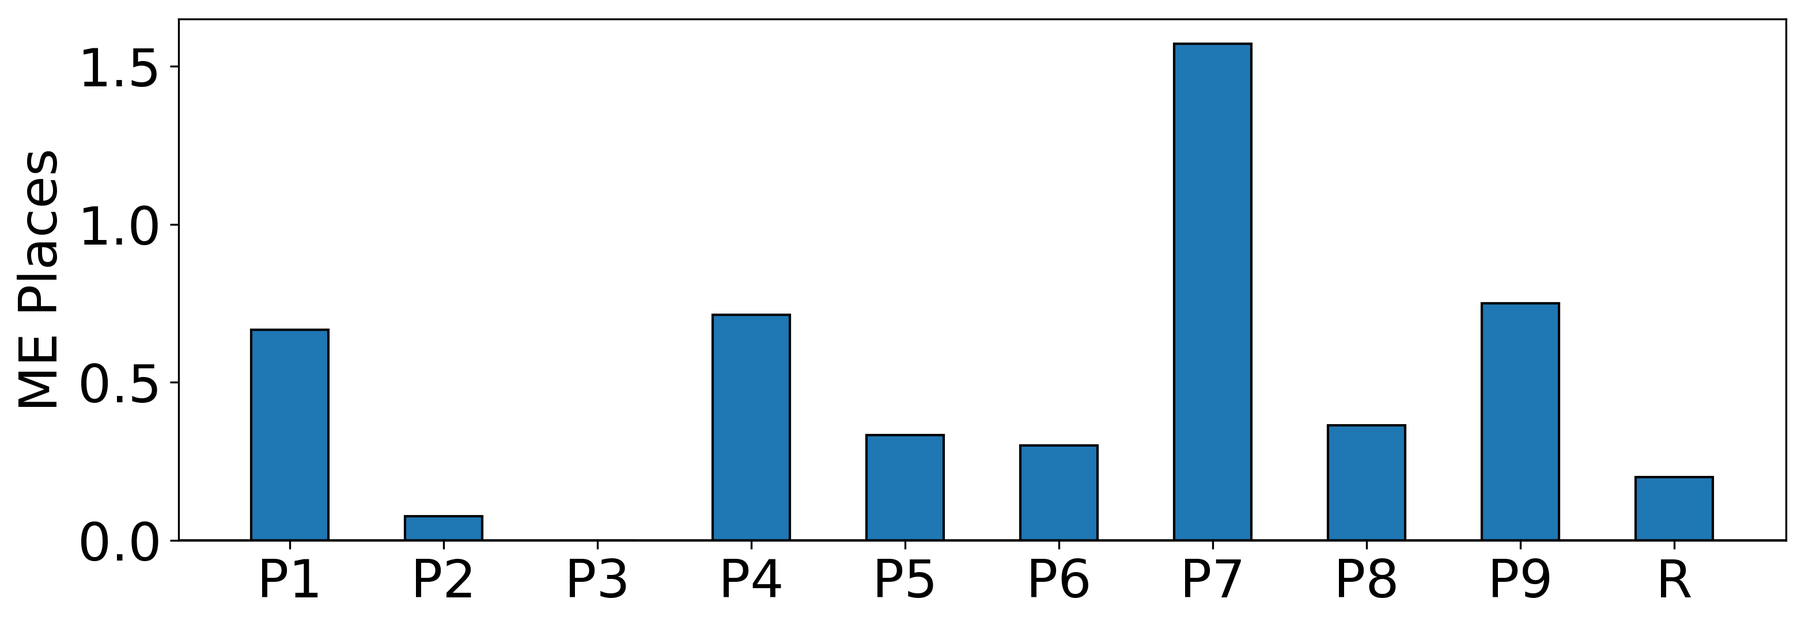
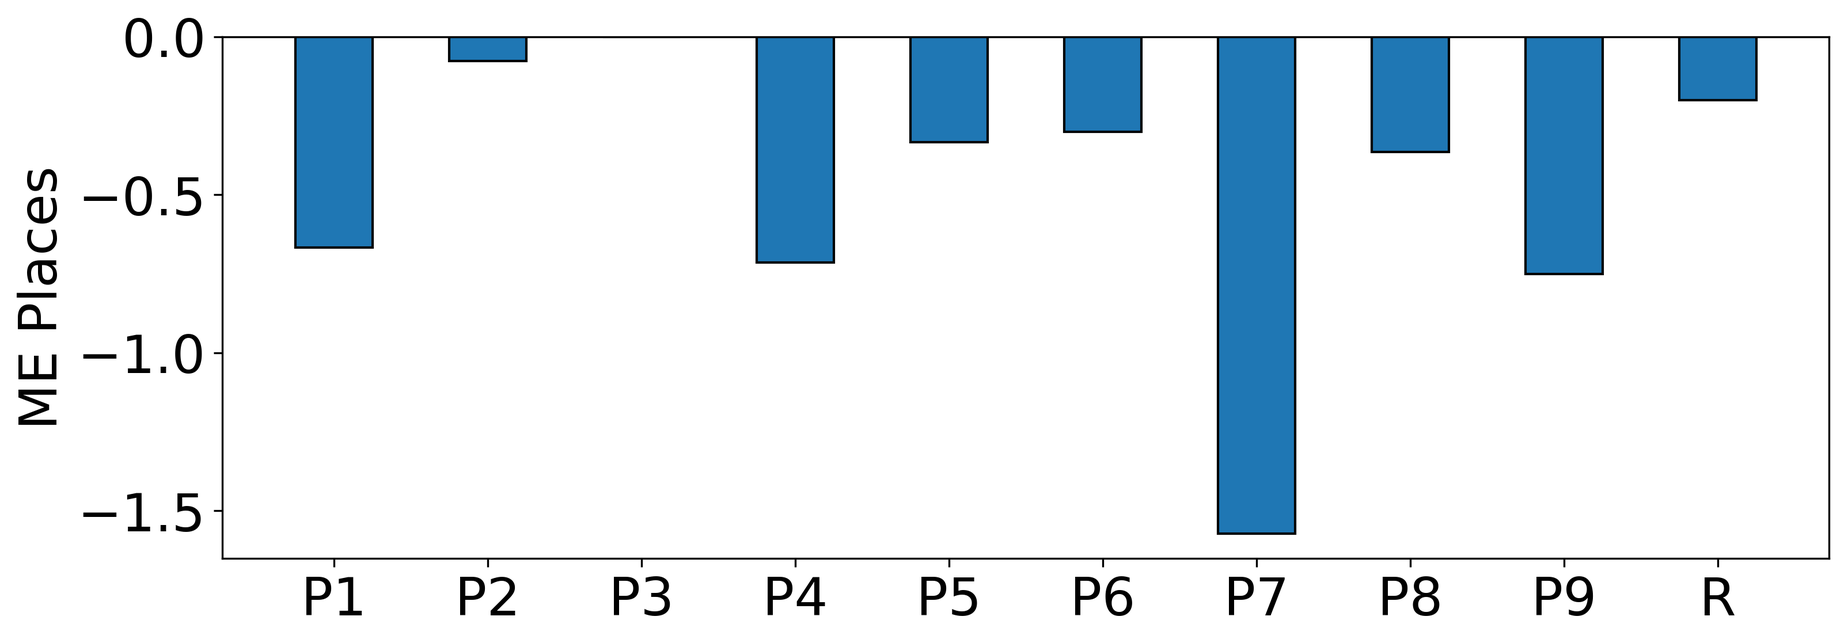
Updates from Overleaf

Changed region(s): [[0.0, 0.0304, 0.9907, 0.9724], [0.8979, 0.9116, 0.9598, 0.942]]

diff --git a/chapters/01-intro/012_background.tex b/chapters/01-intro/012_background.tex
@@ -5,8 +5,8 @@
 % This section will provide a context for the thesis in the form of a short introduction to the topic of deression and secondly a brief litterature review within mobile sensing and its applications.
 
 % Depression and treatments
-Major Depressive Disoder (MDD), commonly known as depression, is a serious illness that is resource-intensive to treat using traditional methods such as face to face consultations. Chartier and Provencher \cite{behavioural_activation_for_depression} describe how depression costs society a lot of money that there is a need to identify effective, evidence-based treatments that are time and cost-effective in an effort to increase the population's accessibility to treatments. Here, low-intensity interventions, such as guided self-help treatments, hold promise for the dissemination of evidence-based treatments. The treatment form of \textit{behavioral activation} is a component of cognitive behavioral therapy, is receiving increased attention and empirical support as a stand-alone psychotherapy method for treating depression. Dobson et al. \cite{randomized_trial_behavioural_activation} discusses how medication is the current standard for treating severe cases of depression, and normal cognitive therapy is the most widely investigated treatment for more moderate cases. Not all patients wish to be medicated and cognitive therapy has not demonstrated efficacy across trials. Dobson et al. found that cognitive therapy was outperformed by behavioral activation which performed similarly to antidepressant medication. Furthermore, the findings were also that behavioral activation is less expensive and longer-lasting alternatives to medication in the treatment of depression. Gravenhorst et al. \cite{Gravenhorst2015} back up this claim stating how mobile phones are beneficial for providing better treatment to more users with less cost, in particular in the area of mental disorders. \\
+Major Depressive Disoder (MDD), commonly known as depression, is a serious illness that is currently treated with medication or through therapy. Dobson et al. \cite{randomized_trial_behavioural_activation} discusses how medication is the current treatment standard for severe cases of depression, with cognitive therapy, a form of psychotherapy, being the most widely investigated treatment for more moderate cases. Dobson et al. also discusses how not all patients wish to be medicated and cognitive therapy has not demonstrated efficacy across trials. Furthermore, traditional psychotherapy is resource-intensive to treat as it requires traditional methods that involves face-to-face consultations face to face consultations. Chartier and Provencher \cite{behavioural_activation_for_depression} describe the need to identify effective, evidence-based treatments that are time and cost-effective in an effort to increase the population's accessibility to treatments. Here, low-intensity interventions, such as guided self-help treatments, hold promise for the dissemination of evidence-based treatments. The treatment form of \textit{behavioral activation} is a component of cognitive behavioral therapy, is receiving increased attention and empirical support as a stand-alone psychotherapy method for treating depression.  Dobson et al. found that cognitive therapy was outperformed by behavioral activation which performed similarly to antidepressant medication. Furthermore, the findings were also that behavioral activation is less expensive and longer-lasting alternatives to medication in the treatment of depression. Gravenhorst et al. \cite{Gravenhorst2015} back up this claim stating how mobile phones, in particular in the area of mental disorders, can provide better treatment to more users with a lower cost. \\
 
 % Mobile sensing
-Mobile sensing is the field of using the phone's sensors to collect objective user data and may include predicting the user state from this data. Objectivity of the data stems from the data being collected from sensors in contrast to subjective user data such as questionnaires. Mobile sensing has become especially prevalent the last few years due to the rise of ubiquitous computing. Applications of mobile sensing include mental health monitoring also known as \textit{digital phenotyping} or \textit{user context generation}. In the realm of mental healthcare mobile sensing has the potential of providing a practical and low-cost approach to deliver psychological interventions for the prevention of mental health disorders \cite{mobile-based-interventions} as well as bringing mental healthcare to populations that do not have access to traditional psychotherapy \cite{future-mental-health}. Within the context of mobile sensing for behaviour and mental state, location data is commonly used. Rohani et al. \cite{rohani2018-correlations} found in a review of 46 studies that several of them showed consistent and statistically significant correlations between objective behavioral features collected via mobile and wearable devices and depressive mood symptoms. In addition they conclude that continuous- and everyday monitoring of behavioral metrics could be a promising supplementary objective measure for estimating depressive mood symptoms. Furthermore, the work by Saeb et al. \cite{Saeb2015, saeb2016} showed that location data can be used to derive certain \textit{mobility features} that are strongly connected with the PHQ-9 score for quantifying depression (see Appendix \ref{appendix:questionnaires}). Therefore, behavioural activation is an ideal use case for using objective mobility features to infer the user's mental state and behaviour. \\
+Mobile sensing involves the use of the phone's sensors to collect objective user data and may include predicting the user state from this data. Objectivity of the data stems from the data being collected from sensors in contrast to subjective user data such as questionnaires. Mobile sensing has become especially prevalent the last few years due to the rise of ubiquitous computing. Applications of mobile sensing include mental health monitoring also known as \textit{digital phenotyping} or \textit{user context generation}. Mobile sensing within healthcare is often abbreviated \textit{mHealth}. Within mental healthcare, mHealth opens the potential for practical and low-cost solutions for psychological interventions \cite{mobile-based-interventions}. In addition, mHealth also enables mental healthcare to reach populations that do not have access to traditional psychotherapy \cite{future-mental-health}, such as developing countries. Within the context of mHealth for behaviour and mental state, location data is commonly used. Rohani et al. \cite{rohani2018-correlations} found in a review of 46 studies that several of them showed consistent and statistically significant correlations between objective behavioral features collected via mobile and wearable devices and depressive mood symptoms. In addition they conclude that continuous- and everyday monitoring of behavioral metrics could be a promising supplementary objective measure for estimating depressive mood symptoms. As behavioural activation requires an understanding of the user's mental state and behavior it is an ideal use case for using objective mobility features. \\
 

diff --git a/chapters/01-intro/014_goals.tex b/chapters/01-intro/014_goals.tex
@@ -6,20 +6,20 @@
 The research goals closely match the research questions and will explain how the different sub-questions are answered, and which methods are used to do so.
 
 \subsubsection*{Goal 1: Implement the Off-line Mobility Feature Algorithms}
-Saeb et al. \cite{Saeb2015} and Canzian et al. \cite{Canzian2015} describes a list of mobility features, some of which they prove to strongly correlate with depressive behavior. These features need to be implemented in their most simple form, i.e. off-line, where all the location data for a given day is readily available. This will be carried out in Python with a synthetic dataset and later in Dart. This is done in order to demonstrate the quality of the algorithms. A pre-processing procedure inspired by Cuttone et al. \cite{sparse-location-2014} for finding certain features has been implemented by Jonas Busk prior to starting this thesis. 
+Saeb et al. \cite{Saeb2015} and Canzian et al. \cite{Canzian2015} describes a list of mobility features, some of which they prove to strongly correlate with depressive behavior. These features need to be implemented in their most simple form, i.e. off-line, where all the location data for a given day is readily available. This will be carried out in Python with a synthetic dataset and later in Dart. This is done in order to demonstrate the quality of the algorithms. A pre-processing algorithm inspired by Cuttone et al. \cite{sparse-location-2014} for finding certain features was used.
 
 \subsubsection*{Goal 2: Adapt Algorithms to Work in Real-time}
-The features described above will be implemented such that they can be evaluated on a partial dataset, i.e. an incomplete day's data. Many of the features will have minor changes applied to their calculation, however, the \textit{Routine Index} feature as defined by Canzian et al.\cite{Canzian2015} and Saeb et al. \cite{Saeb2015} may prove to be a challenge to implement in real-time. By its definition, this feature lends itself to be computed only once multiple full days of data have been collected, making the feature non-trivial to implement in a real-time fashion where it may compute on a partial, incomplete dataset. This adaptation will be carried out in Python.
+The features described above will be implemented such that they can be evaluated on a partial dataset, i.e. an incomplete day's data. Many of the features will have minor changes applied to their calculation and a larger effort is needed to ensure real-time capabilities. This adaptation will be carried out in Python.
 
 \subsubsection*{Goal 3: Implement Real-time Mobility Features on the Smartphone}
-An algorithm/procedure that runs the Mobility Feature algorithms on a smart-phone has to be written which involves a couple of steps. Location data has to be collected and stored on the smartphone, and then it has to be demonstrated that features can be computed whenever they need to be. However, storing raw data every day would end up taking up too much disk space and is therefore not an ideal solution when working with a smartphone. This means the solution has to be able to compute these history-dependent features without relying on storing raw data of each day. This implementation will be carried out in the Flutter mobile framework.
+An procedure that runs the mobility feature algorithms on a smart-phone has to be written which involves a couple of steps. Location data has to be collected and stored on the smartphone, and then it has to be demonstrated that features can be computed whenever they need to be. However, storing raw data every day would end up taking up too much disk space and is therefore not an ideal solution when working with a smartphone. This means the solution has to be able to compute these history-dependent features without relying on storing raw data of each day. This implementation will be carried out in the Dart programming language.
 
 \subsubsection*{Goal 4: Design and Release Flutter Software Package}
 The software package should be designed to perform feature computation in a way that is easy to use for an application programmer. In addition this package should have proper documentation and be released on the Dart package manager \footnote{\url{www.pub.dev}}.
 
 \subsubsection*{Goal 5: Develop a Demo Mobile Application}
-To demonstrate how the software package containing the algorithm will be used in practice, a Flutter demo-app will be developed in parallel with the software package. By developing an actual application and seeing the algorithms in use, a which is easy to use from an application programmer's perspective will emerge.
+To demonstrate how the software package containing the algorithm will be used in practice, a Flutter demo app will be developed in parallel with the software package. By developing an actual application and seeing the algorithms in use, a which is easy to use from an application programmer's perspective will emerge.
 
 \subsubsection*{Goal 6: Conduct a Field Study}
-To test the quality of the Mobility Features in action, a small scale study of 5-10 participants should be conducted and should run for 2-4 weeks (the longer the better). The participants will use the demo application in which they will have to fill out a small diary in order to evaluate the features computed by the algorithms. Participants should be reminded daily to fill out the diary such that as much user data is collected as possible.
+To test the quality of the mobility features, a small scale study of 5-10 participants is planned to run for at least 2 weeks. The participants will use the demo application in which they will have to fill out a small diary in order to evaluate the features computed by the algorithms. Participants should be reminded daily to fill out the diary such that as much user data is collected as possible.
 

diff --git a/chapters/01-intro/011_context_and_motivation.tex b/chapters/01-intro/011_context_and_motivation.tex
@@ -7,8 +7,10 @@
 % USE AN EXAMPLE, too abstract
 % Det har vist sig, at man ved at opsamle locatio ndata, kan man sige meget om adf'rd og mentale tilstand. Fx der var et studie som viste (saeb) en høj korrelation mellem features og spørgeskemaer
 
-It has been shown by Saeb et al. and Canzian et al. \cite{Saeb2015, Canzian2015} that a user's location data can reveal a lot about the user's change in behaviour and mental state. This is done by computing certain daily \textit{mobility features} from the location data over a period of time. In the context of mental health research, Saeb et. al \cite{Saeb2015} found that certain features correlate highly with the mental state reported by patients through medical questionnaires which indicate the features may be used as a component in psychotherapy. This thesis will describe the design and implementation of the \textit{Mobility Features Package}, a software package capable of computing mobility features in a smart-phone application. The research problem addressed in this project is focused on the software engineering aspect of developing the package and will focus on the lack of re-usable source code in research and lack of support for on-device, real-time feature computation. By real-time we refer to on-device computation at any time of the day, that is sufficiently quick to not hinder the application.\\
+It has been shown that changes in a user's location can reveal a lot about their behaviour and mental state. Location data collected from a user's smartphone is transformed into daily metrics called \textit{mobility features} that are highly correlated with the users mental state \cite{Saeb2015, Canzian2015}. Coherence between features derived objectively from a users phone and their mental state - as reported through questionnaires - could be a vital step to support psychotherapy components in the clinic.\\
 
-Regarding source code, numerous contributions exist within the field of using smartphone data for predicting the various states of the user. However, it is not common practice for researchers to publish their source code such that it may be used by other researchers in the future. In addition, most research in the field of mobility data (see \cite{Saeb2015, saeb2016, Canzian2015, extraction-of-behavioural-features}) seems to develop for the Android platform exclusively since this platform is more prevalent in most countries. This means even if the code was released, researchers interested in using the iOS platform would have to rewrite the source code more or less from the ground up. Also, source code tends to get deprecated over time, meaning maintenance by the researcher is required. These problems are contributing to the lack of source code available.\\
+Numerous contributions exist within the field of using smartphone data for predicting the various states of the user. It is however not common practice for researchers to publish their source code such that it may be used by other researchers in the future. In addition, most research in the field of mobility data (see \cite{Saeb2015, saeb2016, Canzian2015, extraction-of-behavioural-features}) seems to develop for the Android platform exclusively since this platform is more prevalent in most countries\footnote{\url{https://gs.statcounter.com/os-market-share/mobile/worldwide}}. This means even if the code was released, researchers interested in using the iOS platform would have to rewrite the source code more or less from the ground up. Furthermore, source code tends to get deprecated over time, meaning maintenance by the researcher is required. \\
 
-Regarding the lack of real-time support, it is common practice to gather all of the data first and then perform feature computation and data analysis together afterwards. This means that features are not computed when the mobile application is used 'in the field' which is when features can be used for interventions. Some features rely on historical data being available which also complicates their real-time computation, since historical data will need to be stored and computed on a resource constrained device. A research within mobile-health using this package will be able to move their focus from away from software engineering to focus on data analysis and study design. 
+Furthermore, it is common practice to gather all of the data first and then perform feature computation and data analysis together afterwards \cite{Saeb2015, saeb2016, sparse-location-2014, extraction-of-behavioural-features}. This means that features are not computed when the mobile application is used 'in the field' which is when features can be used for interventions. Some features rely on historical data being available which also complicates real-time computation, since historical data will need to be stored and computed on a resource constrained device. As a consequence, researchers within mobile-health using this package will be able to move their focus from away from software engineering to focus on data analysis and study design.\\
+
+This thesis describes the design and implementation of the \textit{Mobility Features Package}, a software package capable of computing mobility features in a smart-phone application. The research problem is focused on the software engineering aspect of developing such a package and will address the lack of re-usable source code in research and lack of support for on-device, real-time feature computation. By real-time we refer to on-device computation at any time of the day, that is sufficiently quick to not hinder the application.

diff --git a/chapters/01-intro/015_results.tex b/chapters/01-intro/015_results.tex
@@ -1,2 +1,12 @@
 \section{Results}
-The Mobility Features Package was implemented in the Flutter framework and supports on-device real-time mobility feature computation. From the work of Saeb et al. \cite{Saeb2015} and Canzian et al. \cite{Canzian2015} the features \textit{Home Stay, Number of Places, Distance Travelled, Location Variance, Entropy, Normalized Entropy,} and \textit{Routine Index} were chosen to be included in the package. A set of additional location features (stops, places and moves) were included as well, inspired by the work of Cuttone et al. \cite{sparse-location-2014} and Canzian et al. \cite{Canzian2015}. Features are computed in real-time using historical stops and moves stored on the phone which lowers the storage requirements greatly compared to using raw location data for feature computation. The Mobility Features Package makes it possible for the application programmer to compute mobility features with just 3 lines of code. This comes as the result of the API concealing the feature implementation details from the programmer to very high degree. Location tracking is not automatically carried out by the package, this must instead be done by an application programmer when writing his/her mobile application. This allows for easier maintenance and enables the package to be used among other packages dependent on location tracking, without causing dependency issues. In addition the package was tested through a field study with 10 participants for which an application was developed in Flutter that used the package. The application collected the participants' location several thousand times per day which resulted in a dataset of 240 MB of raw location data in total. Participants filled out a daily questionnaire pertaining to the features, these answers were then compared to the computed features. In comparing the answers to the computed features, promising results were achieved for the participants that were diligent in tracking their location and providing answers. 
+The Mobility Features Package was implemented in the Flutter framework and supports on-device real-time mobility feature computation. From the work of Saeb et al. \cite{Saeb2015} and Canzian et al. \cite{Canzian2015} the features \textit{Home Stay, Number of Places, Distance Travelled, Location Variance, Entropy, Normalized Entropy,} and \textit{Routine Index} were chosen to be included in the package. A set of additional location features, e.g. stops, places and moves, were included as well, inspired by the work of Cuttone et al. \cite{sparse-location-2014} and Canzian et al. \cite{Canzian2015}. Features are computed in real-time using historical stops and moves stored on the phone which lowers the storage requirements greatly compared to using raw location data for feature computation. The Mobility Features Package makes it possible for the application programmer to compute mobility features with just 3 lines of code. This comes as the result of the API concealing the feature implementation details from the programmer to very high degree. The package does not depend on any specific location plugin due to its design, which allows the programmer to flexibly choose their own plugin for tracking location data. This allows for easier maintenance and enables the package to be used among other packages dependent on location tracking, without causing dependency issues. The capabilities of the package was demonstrated through a field study with 10 participants lasting 3 weeks. For this study a Flutter application collected the participants' location and used the package to compute the participants' features multiple times daily. Participants also filled out a daily questionnaire pertaining to the features, which were compared to the computed features. In the 3-weeks study following insights concerning the Mobility package were drawn:
+
+\begin{itemize}
+    \item All the participants successfully installed and used the Mobility Features throughout the study period.
+    
+    \item Mobility features were computed several times a day, however, as in similar 'in the wild' studies, non-uniform gaps were observed in the collected location data, which reduced the accuracy of the computed features.
+    
+    \item When comparing the daily location features with subjective user data we found that the Mobility Features Package predicts the Number of Places visited with an RMSE of 0.5 places, the Home Stay percentage with an RMSE of 14.3\% and the Routine Index with an RMSE of 22.5\%.
+    
+    \item The algorithms tends to undershoot in predicting the number of places and home stay, likely due to gaps in the data. There is no consistent over- or undershooting done when it comes to computing the Routine Index, which likely stemmed from gaps in the location data, as well as variance the validity of the subjective answers regarding the participants routine.
+\end{itemize}

diff --git a/chapters/07-discussion/071-data-analysis.tex b/chapters/07-discussion/071-data-analysis.tex
@@ -118,16 +118,40 @@ The day-by-day results for the author are displayed in figure \ref{fig:plot-dail
     \caption{The answered and calculated data for each day for participant P8}
     \label{fig:plot-p8-features}
 \end{figure}
+
+
 \subsection{Measuring Errors}
+The RMSE was computed for all three features across participants and are shown in Table \ref{tab:error-table}. We observe the following:
 
-To say something about whether or not the algorithms undershoots or overshoots, the mean error for each participant was calculated as $ME = \frac{\sum(A) - \sum(F)}{N}$ (where $N$ is the total number of days for the specific feature, for the participant). If the result is \textit{positive} then the answered result was on average higher and vice versa if the result is \textit{negative}. Figure \ref{fig:plot-mean-error} shows the mean error for each feature, for each participant.\\
+\begin{itemize}
+    \item The Number of Places predicted deviates with almost 1 place daily.
 
-For the Number of Places feature, it can be observed that participants generally answer that they have been at more places than the algorithms calculate.\\
+    \item The Home Stay percentage deviates with 14\% daily.
 
-Regarding the Home Stay feature, it can be seen that it lies 10\% lower for half the participants (i.e. positive mean error), which was to be expected due to gaps in the sampled data. For a few participants the feature overshoots (i.e. negative mean error) although still within the 10\% error margin. For participant P2 it averages out to near zero percent and for participant P1 the feature undershoots dramatically with an error of 30\%.\\
+    \item The Routine Index deviates with 22.5\% daily. Here it is important to note than the Routine Index answer was given on scale with 20 percent increments which means that the 22.5\% RMSE is equivalent to one 'step' one the scale.
+\end{itemize}
 
-The Routine Index feature is very mixed with 6 participants answering higher than the algorithm and the remaining 4 being lower. All except for participant 6 deviating with almost 40\%. Routine Index answer was given on scale with 20 percent increments which means that the mean error is likely to lie much higher percentage-wise than the other two features.
-Very subjective\\
+\begin{table}[]
+    \centering
+    \begin{tabular}{|l|l|l|l|}
+    \hline
+                        & \textbf{Number of Places} & \textbf{Home Stay} & \textbf{Routine Index} \\ \hline
+    \textbf{Mean RMSE}       & 0.99                      & 14.27 (\%)         & 22.5 (\%)              \\ \hline
+    \end{tabular}
+    \caption{The mean RMSE computed for all participants}
+    \label{tab:error-table}
+\end{table}
+
+
+To say something about whether or not the features undershoot or overshoot, the mean error was calculated for each participant as as $ME = \frac{\sum(F) - \sum(A)}{N}$ (where $N$ is the total number of days for the specific feature, for the participant). If the mean error is positive, the feature overshoots compared to the answered value, and vice versa if the error is negative. Since the mean error has a sign, i.e. either positive or negative, the 'mean' mean error cannot be computed. Instead, the individual mean error for each participant is plotted in Figure \ref{fig:plot-mean-error}. From this figure we observe the following:
+
+\begin{itemize}
+    \item The Number of Places feature undershoots by around 0.6 places or lower for most participants, with P7 being an outlier with -1.5 places. It is likely that the undershooting stems from gaps in the data, which can lead to places not being detected due to missing signal.
+
+    \item The Home Stay feature undershoots for 8/10 participants, most of these having an error under 10\%. For those two participants where the feature overshoots, the error is also within 10\%. It is highly likely that the undershooting stems from gaps in the data which will lead to an underestimation of the time spent at home.
+
+    \item The Routine Index feature is mixed with an equal number of participants for which it overshoots and undershoots. It is likely that both gaps in the data as well as subjectivity on a user basis leads to this varying result.
+\end{itemize}
 
 
 \begin{figure}[h]
@@ -135,8 +159,9 @@ Very subjective\\
     \includegraphics[width=\textwidth]{images/study/me_places.png}
     \includegraphics[width=\textwidth]{images/study/me_homestay.png}
     \includegraphics[width=\textwidth]{images/study/me_routine.png}
-    \caption{The mean error for each participant for each of the three features}
+    \caption{The mean error for each participant for each of the three features. A negative mean error means the computed feature undershoots, and a positive error means it overshoots}
     \label{fig:plot-mean-error}
 \end{figure}
+
 
 

diff --git a/chapters/02-related-work/022-location-tracking.tex b/chapters/02-related-work/022-location-tracking.tex
@@ -15,7 +15,7 @@
 %   PHQ9 questionnaire
 %   Our study suggests that it is possible to monitor depression passively using phone sensor data, and in particular, GPS. This has significant public health implications. Most people are unwilling to answer questions repeatedly over long periods of time, while passive monitoring could improve the management of depression in populations, allowing at risk patients to be treated more quickly as symptoms emerge, or monitoring patients’ responses during treatment.
 
-The work done by Saeb et al. \cite{Saeb2015}, Canzian et al. \cite{Canzian2015}  and to some extend Cuttone et al. \cite{sparse-location-2014} forms the basis of this thesis with regard to mobility features. The work done by Ashbrook et al. \cite{learning_significant_locations} is not directly related but is one of the pioneering contributions within the field.\\
+Mobile sensing is the ability to unobtrusively collect sensor data from built-in phone sensors, and within the realm behaviour and mental state inference, location data is commonly used. The work done by Saeb et al. \cite{Saeb2015}, Canzian et al. \cite{Canzian2015}  and to some extend Cuttone et al. \cite{sparse-location-2014} forms the basis of this thesis with regard to mobility features. The work done by Ashbrook et al. \cite{learning_significant_locations} is not directly related but is one of the pioneering contributions within the field.\\
 
 % \paragraph{Saeb et al.} 
 Saeb et al. provides a list of mobility features and relate them to mental state and user behaviour, the featueres are outlined in Table \ref{tab:saeb-features}. Out of these features the authors found that Home Stay, Location Variance, Normalized Entropy and Circadian movement correlate strongly with the PHQ9 score (see Appendix \ref{appendix:questionnaires}). Clinical assessment of depressive symptoms is usually done using questionnaires, such as the patient health questionnaire (PHQ-9). These questionnaires evaluate symptoms related to the patients state of mind, which for depressed patients tend to change. Saeb et al. finds a strong correlation between certain mobility features and the PHQ9 score obtained by the patients in a field study. Their findings therefore indicate that it is possible to monitor depression passively using GPS data tracked via the smart-phone. They explain that most people are unwilling to answer questions repeatedly over long periods of time, which is the case with an evaluation system based on the PHQ9 questionnaire. Passive monitoring via the patients smartphone could great improve the management of depression in populations by discovering relapses of high-risk patients earlier, so that they may receive the treatment they need before it is too late. \\
@@ -152,8 +152,8 @@ Cuttone et al. used two main approaches for finding stops and POIs. The first in
     \item Speed thresholding determines which location points belonged to stops, and which points did not. The max-speed parameter was determined by grouping data samples based on their timestamp, each group having a duration of $T$. Choosing the max-speed parameter was then done by considering the speed between the median location of each bin. Gaussian Mixture Modelling was also tried which looks at all the location samples independent of their timestamp, and identifies POIs directly from clusters with large densities. 
 \end{itemize}
 
-For both these algorithms, the DBSCAN clustering algorithm by Ester et al. \cite{density-based-1996} was applied afterwards, which groups stops into places and marks noisy stops as not belonging to a place.
+For both these algorithms, the DBSCAN clustering algorithm by Ester et al. \cite{density-based-1996} was applied afterwards, which groups stops into places and marks noisy stops as not belonging to a place.\\
 
-The second approach used a \textit{Gaussian Mixture Model} to cluster the raw location data into places, and infer the stops from these clusters. The upside to this method is that it is much simpler to perform on paper, but the downside is that it does not consider the temporal dimension at all which can contain a lot of useful information. This means the GMM uses more compute power than the other two approaches. 
+The second approach used a \textit{Gaussian Mixture Model} to cluster the raw location data into places, and infer the stops from these clusters. The upside to this method is that it is much simpler to perform on paper, but the downside is that it does not consider the temporal dimension at all which can contain a lot of useful information. This means the GMM uses more compute power than the other two approaches. \\
 
 For this thesis, a modified version of the distance grouping algorithm was chosen is described in Chapter \ref{chapter:03}.

diff --git a/chapters/02-related-work/021-phenotyping.tex b/chapters/02-related-work/021-phenotyping.tex
@@ -1,2 +1,4 @@
 \section{Mobile Sensing and Digital Phenotyping}
-The work by Insel \cite{digital_phenotyping} deals with the topic of collecting and aggregating user data into a so-called \textit{digital phenotype}. It is predicted that by 2050, the biggest impact in psychiatry and mental health will have been the revolution in technology- and information science. Smartphones have become ubiquitous in the past decade and there are over three billion smartphones with a data plan worldwide, each of which has computing power which surpasses supercomputers of the 1990s. In areas around the world without access to resources such as clean water and food, ownership of a smartphone and access to information has become a symbol of modernity. In the realm of psychiatry, a current data collection problem is the dependence on self-reporting of sleep, appetite, and emotional state, even though it is recognized that depression will impair people's ability to remain objective in assessing their own behavior and thus data is prone to be faulty. Another problem discussed by Insel is how people suffering from mental illness tend to not seek help before it is too late. Depressive relapses are therefore also often reported with considerable delay for patients currently in treatment. The smartphone offers an objective form of mental-state measurement which uses built-in sensors such as geo-location, accelerometer, and human-computer interactions (HCI) to infer the state of the patient. This makes it possible to assess people by using data in a real-time fashion, rather than in retrospect as is currently is done. Digital phenotyping could in theory fill the role of a smoke detector which provides early signs of relapse and recovery, without replacing the face-to-face consultations entirely. In addition, this also allows researchers to track patients in their own environment, rather than in a clinical environment. Mobile sensing is the ability to unobtrusively collect sensor data from built-in phone sensors, and within the realm behaviour and mental state inference, location data is commonly used. 
+The work by Insel \cite{digital_phenotyping} deals with the topic of collecting and aggregating user data into a so-called \textit{digital phenotype}. It is predicted that by 2050, the biggest impact in psychiatry and mental health will have been the revolution in technology- and information science. Smartphones have become ubiquitous in the past decade and there are over three billion smartphones with a data plan worldwide, each of which has computing power which surpasses supercomputers of the 1990s. In areas around the world without access to resources such as clean water and food, ownership of a smartphone and access to information has become a symbol of modernity. \\
+
+In the realm of psychiatry, a current data collection problem is the dependence on self-reporting of sleep, appetite, and emotional state, even though it is recognized that depression will impair people's ability to remain objective in assessing their own behavior and thus data is prone to be faulty. Another problem discussed by Insel is how people suffering from mental illness tend to not seek help before it is too late. Depressive relapses are therefore also often reported with considerable delay for patients currently in treatment. The smartphone offers an objective form of mental-state measurement which uses built-in sensors such as geo-location, accelerometer, and human-computer interactions (HCI) to infer the state of the patient. This makes it possible to assess people by using data in a real-time fashion, rather than in retrospect as is currently is done. Digital phenotyping could in theory fill the role of a smoke detector which provides early signs of relapse and recovery, without replacing the face-to-face consultations entirely. In addition, this also allows researchers to track patients in their own environment, rather than in a clinical environment. 

diff --git a/chapters/07-discussion/072-future-work.tex b/chapters/07-discussion/072-future-work.tex
@@ -2,8 +2,10 @@
 \section{Future Work}
 The application development process led to many of the improvements of the package API reflected in Chapter \ref{chapter:04} and \ref{chapter:05} however, a couple of issues remain both in terms of the API and the feature accuracy. In addition it is the plan to integrate the package into existing projects, such as CAMS \cite{CAMS} and MUBS \cite{mubs-rohani}.
 
-\subsection{Adjusting for Missing Data}
-As discussed prior in this chapter, this are substantial non-uniform gaps in the collected location data, even for the author. The author had a new phone and was diligent in making sure the phone was tracking the location as often as possible, yet data is still missing in certain periods. Feature values can be influenced to a high degree by missing data, especially the Routine Index. Currently the Routine Index feature ignores periods of missing data when computing the overlap between the routine matrix and today\s hour matrix, however a lot of gaps in the data will result in the feature overshooting. The solution for this missing data problem is either to use a dedicated GPS receiver, or to use an imputation strategy for missing data. Imputation is most likely the best solution, and can be carried out by filling out gaps using historical data. 
+\subsection{Missing Data}
+As discussed prior in this chapter, this are substantial non-uniform gaps in the collected location data, even for the author. This is a common occurrence for 'in the wild' studies \cite{detecting_bipolar_from_gps}. Many variables can influence the background location tracking in smartphones, such as the availability of GPS signal, battery, as well as available memory on the phone. The author had a relatively new phone (iPhone XS) and was diligent in making sure the phone was tracking the location as often as possible, yet still has significant gaps in his data. This means other participants that were less diligent or had older phones have even more gaps is still missing in certain periods. \\
+
+Feature values can be influenced to a high degree by missing data, especially the Routine Index. Currently the Routine Index feature ignores periods of missing data when computing the overlap between the routine matrix and today\s hour matrix, however a lot of gaps in the data will result in the feature overshooting. The solution for this missing data problem is either to use a dedicated GPS receiver, or to use an imputation strategy for missing data. Imputation is most likely the best solution, and can be carried out by filling out gaps using historical data. 
 
 \subsection{Data Collection and Parameter Tuning}
 The field study resulted in a dataset of 2.5M data points which means there would have been an opportunity for tuning the parameters if time allowed. Parameter tuning would increase the accuracy of the features produced by the algorithms and thereby increase its usefulness. Some features vary greatly in their accuracy from participant to participant and it is unknown whether that is down to the commitment of the participants and how diligent they were in tracking their location, as well as their answering, or whether the algorithms simply do not consider certain commonly occurring edge cases.\\

diff --git a/chapters/06-validation/063-app-implementation.tex b/chapters/06-validation/063-app-implementation.tex
@@ -71,7 +71,7 @@ Firebase file storage was used to host all the data generated by the study appli
 
 Additionally, the Firebase Cloud Messaging (FCM) service was set up such that push notifications could be delivered to the participants' phones via the application, to remind them to fill out the diary. Push notifications are another alternative to local notifications, the latter of which is scheduled using alarm-based triggers. Push notifications are a great tool as a developer since notifications are sent out from a centralized server and can be edited at any time without access to the physical phones. In was sometimes useful to send out notifications to specific users if they forgot to fill out many days in a row.
 
-\subsection{Computing Features and Async Calls }
+\subsection{Computing Features and Async Calls}
 Every time a buffer has been stored to the disk 5 times, features are computed. This was done simply to ensure features were computed regularly in real-time (i.e. with an incomplete dataset) during the study. This was an arbitrary trigger set up to ensure that features were computed multiple times per day. In addition, whenever the user navigates to the diary page, features are computed such that they are generated close to answers being given. One concept not discussed much so far is the need for asynchronous computation and the use of multi-threading. Flutter applications support multi-threading, which means the main thread runs the user interface, and background threads can be spawned in order to perform heavy computation which would otherwise block the main thread, which means the user would experience a frozen UI. In the study app, there was no real user interface so to speak, but in a real-world application, there will be a user interface that cannot be allowed to freeze due to the feature calculation. In Flutter threads are referred to as Isolates which communicate using a \textit{SendPort} and a \textit{ReceivePort}. These two objects can be used to transfer other objects between threads, such that the main thread can request a background thread to calculate the features, and the background thread will then send back a \textit{MobilityContext} object once finished. 
 
 \begin{minted}{dart}

diff --git a/appendices/depression.tex b/appendices/depression.tex
@@ -2,9 +2,7 @@
 \chapter{Questionnaires}
 \label{appendix:questionnaires}
 \section{PHQ-9 (Patient Health Questionnaire)}
-Patented by Pfizer
-
-The PHQ-9 questionnaire contains 9 questions pertaining to the mental state of the patient \footnote{\url{https://patient.info/doctor/patient-health-questionnaire-phq-9}}. Each question asks ‘Over the last two weeks, how often have you been bothered by any of the following problems?’ with the questions being the following: \\
+The PHQ-9 questionnaire, patented by Pfizer, contains 9 questions pertaining to the mental state of the patient \footnote{\url{https://patient.info/doctor/patient-health-questionnaire-phq-9}}. Each question asks ‘Over the last two weeks, how often have you been bothered by any of the following problems?’ with the questions being the following: \\
 
 \textbf{Q1:} Little interest or pleasure in doing things? \\
 

diff --git a/appendices/data-analysis-appendix.tex b/appendices/data-analysis-appendix.tex
@@ -1,0 +1,12 @@
+\chapter{Data Analysis - Extra Plots}
+\label{appendix:data-analysis}
+\section{Missing Data}
+
+Figure \ref{fig:p8-gaps} shows the collected location data for participant P8 who had an older phone (iPhone 6s) which has limited memory and compute resources, which likely impacted how much data was tracked. The participant was very diligent in making sure the phone tracked at all times, yet substantial gaps still exist.
+
+\begin{figure}
+    \centering
+    \includegraphics{images/study/ec110976-0192-436d-b451-4f5dd97e71d8-gaps.png}
+    \caption{An event plot for participant P8 who was diligent in making sure the phone was tracking, but had an older phone (iPhone 6s)}
+    \label{fig:p8-gaps}
+\end{figure}
